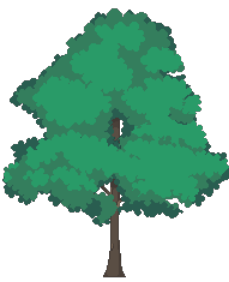
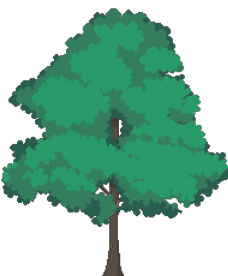
init menu scene

diff --git a/misc/game_stuff_cpp/3/src/ScenePlay.cpp b/misc/game_stuff_cpp/3/src/ScenePlay.cpp
@@ -30,7 +30,7 @@ void ScenePlay::init(const std::string & levelPath)
     registerAction(sf::Keyboard::Space,  "SHOOT");
 
     m_gridText.setCharacterSize(12);
-    // m_gridText.setFont(m_game->getAssets().getFont("Tech"));
+    m_gridText.setFont(m_game->getAssets().getFont("Main"));
     
     loadLevel(levelPath);
 }
@@ -197,6 +197,19 @@ void ScenePlay::sMovement()
         }
         e->getComponent<CTransform>().pos += velocity;
     }
+    // if player fall below
+    if (m_player->getComponent<CTransform>().pos.y > m_game->window().getSize().y)
+    {
+        std::stringstream ss;
+        ss << "You lose";
+        sf::Text t;
+        t.setString(ss.str());
+        t.setCharacterSize(20);
+        t.setFillColor(sf::Color::Black);
+        t.setPosition(m_game->window().getView().getCenter());
+        m_game->window().draw(t);
+        m_player->destroy();
+    }
 }
 
 void ScenePlay::sRender()
@@ -265,18 +278,14 @@ void ScenePlay::sRender()
             {
                 std::stringstream ss;
                 ss << "(" << x / m_gridSize.x << ", " << (m_game->window().getSize().y - y) / m_gridSize.y - 1 << ")";
-                sf::Text text;
-                text.setFont(m_game->getAssets().getFont("Main"));
-                text.setString(ss.str());
-                text.setCharacterSize(10);
-                text.setFillColor(sf::Color::Black);
-                text.setPosition(x + 5, y + 5); // Offset the text slightly from the grid intersection
-                m_game->window().draw(text);
+                m_gridText.setString(ss.str());
+                m_gridText.setCharacterSize(10);
+                m_gridText.setFillColor(sf::Color::Black);
+                m_gridText.setPosition(x + 5, y + 5); // Offset the text slightly from the grid intersection
+                m_game->window().draw(m_gridText);
             }
         }
-
     }
-
     m_game->window().display();
 }
 
@@ -341,12 +350,12 @@ void ScenePlay::sLifespan()
 
 void ScenePlay::sCollision()
 {
-    Physics ph;
+    bool is_in_air = true;
 
     for (auto tile : m_entityManager.getEntities("tile"))
     {
-        Vec2 overlap = ph.GetOverlap(m_player, tile);
-        Vec2 prevOverlap = ph.GetPreviousOverlap(m_player, tile);
+        Vec2 overlap = m_physics.GetOverlap(m_player, tile);
+        Vec2 prevOverlap = m_physics.GetPreviousOverlap(m_player, tile);
         
         if (overlap.x > 0 && overlap.y > 0)
         {
@@ -355,6 +364,7 @@ void ScenePlay::sCollision()
                 m_player->getComponent<CTransform>().pos.y -= overlap.y;
                 m_player->getComponent<CTransform>().velocity.y = 0;
                 m_player->getComponent<CInput>().canJump = true;
+                is_in_air = false;
             }
             if (prevOverlap.x > 0 && m_player->getComponent<CTransform>().pos.y > tile->getComponent<CTransform>().pos.y)
             {
@@ -376,14 +386,14 @@ void ScenePlay::sCollision()
     {
         for (auto arrow : m_entityManager.getEntities("arrow"))
         {
-            Vec2 overlap = ph.GetOverlap(arrow, tile);
+            Vec2 overlap = m_physics.GetOverlap(arrow, tile);
             if (overlap.x > 0 && overlap.y > 0)
             {
                 arrow->destroy();
             }
         }
     }
-    if (m_player->getComponent<CTransform>().velocity.y != 0)
+    if (is_in_air)
     {
         m_player->addComponent<CState>("Jump");
         m_player->getComponent<CInput>().canJump = false;

diff --git a/misc/game_stuff_cpp/3/src/SceneMenu.cpp b/misc/game_stuff_cpp/3/src/SceneMenu.cpp
@@ -1,0 +1,70 @@
+#include "SceneMenu.h"
+#include "ScenePlay.h"
+#include "Scene.h"
+#include "GameEngine.h"
+#include <SFML/Graphics.hpp>
+
+
+SceneMenu::SceneMenu(GameEngine * gameEngine)
+    : Scene(gameEngine)
+{
+    init();
+}
+
+void SceneMenu::init()
+{
+    m_title = "Menu";
+    m_menuStrings = {"Level 1", "Level 2"};
+    m_levelPaths = {"../bin/level.txt", "../bin/level2.txt"};
+    m_menuText.setString("Help yourself");
+
+    registerAction(sf::Keyboard::W,      "UP");
+    registerAction(sf::Keyboard::S,      "DOWN");
+    registerAction(sf::Keyboard::Space,  "OK");
+}
+
+void SceneMenu::update()
+{
+    sRender();
+}
+
+void SceneMenu::onEnd()
+{
+
+}
+
+void SceneMenu::sDoAction(const Action & action)
+{
+    if (action.name() == "UP")         { m_selectedMenuIndex++; }
+    else if (action.name() == "DOWN")  { m_selectedMenuIndex--; }
+    else if (action.name() == "OK")    { m_game->changeScene("PLAY", std::make_shared<ScenePlay>(m_game, "../bin/level.txt")); }
+}
+
+void SceneMenu::sRender()
+{
+    m_game->window().clear();
+    m_menuText.setString(m_title);
+    m_menuText.setFont(m_game->getAssets().getFont("Main"));
+    m_menuText.setPosition(100, 50);
+    m_game->window().draw(m_menuText);
+
+    for (size_t i = 0; i < m_menuStrings.size(); ++i)
+    {
+        m_menuText.setString(m_menuStrings[i]);
+        m_menuText.setPosition(100, 150 + i * 50);
+        
+        // Highlight the selected menu item
+        if (i == m_selectedMenuIndex) 
+        {
+            m_menuText.setFillColor(sf::Color::Red);
+        }
+        else 
+        {
+            m_menuText.setFillColor(sf::Color::White);
+        }
+
+        m_game->window().draw(m_menuText);
+    }
+
+    m_game->window().display();
+}

diff --git a/misc/game_stuff_cpp/3/src/GameEngine.cpp b/misc/game_stuff_cpp/3/src/GameEngine.cpp
@@ -15,10 +15,10 @@ void GameEngine::init(const std::string & path)
     m_assets.loadFromFile(path);
     m_window.create(sf::VideoMode(1280, 768), "Test");
     m_window.setFramerateLimit(60);
+    m_sceneMap["MENU"] = std::make_shared<SceneMenu>(this);
     m_sceneMap["PLAY"] = std::make_shared<ScenePlay>(this, "../bin/level.txt");
-    m_currentScene = "PLAY";
+    m_currentScene = "MENU";
 
-    // std::cout << m_currentScene << std::endl;
     // changeScene("PLAY", std::make_shared<ScenePlay>(this));
 }
 
@@ -65,14 +65,6 @@ void GameEngine::sUserInput()
         {
             quit();
         }
-
-        // if (event.type == sf::Event::KeyPressed)
-        // {
-        //     if (event.type == sf::Event::X)
-        //     {
-
-        //     }
-        // }
 
         if (event.type == sf::Event::KeyPressed || event.type == sf::Event::KeyReleased)
         {

diff --git a/misc/game_stuff_cpp/3/src/SceneMenu.h b/misc/game_stuff_cpp/3/src/SceneMenu.h
@@ -6,7 +6,7 @@
 #include <deque>
 #include "EntityManager.h"
 
-class SceneMenu
+class SceneMenu : public Scene
 {
 
 protected:
